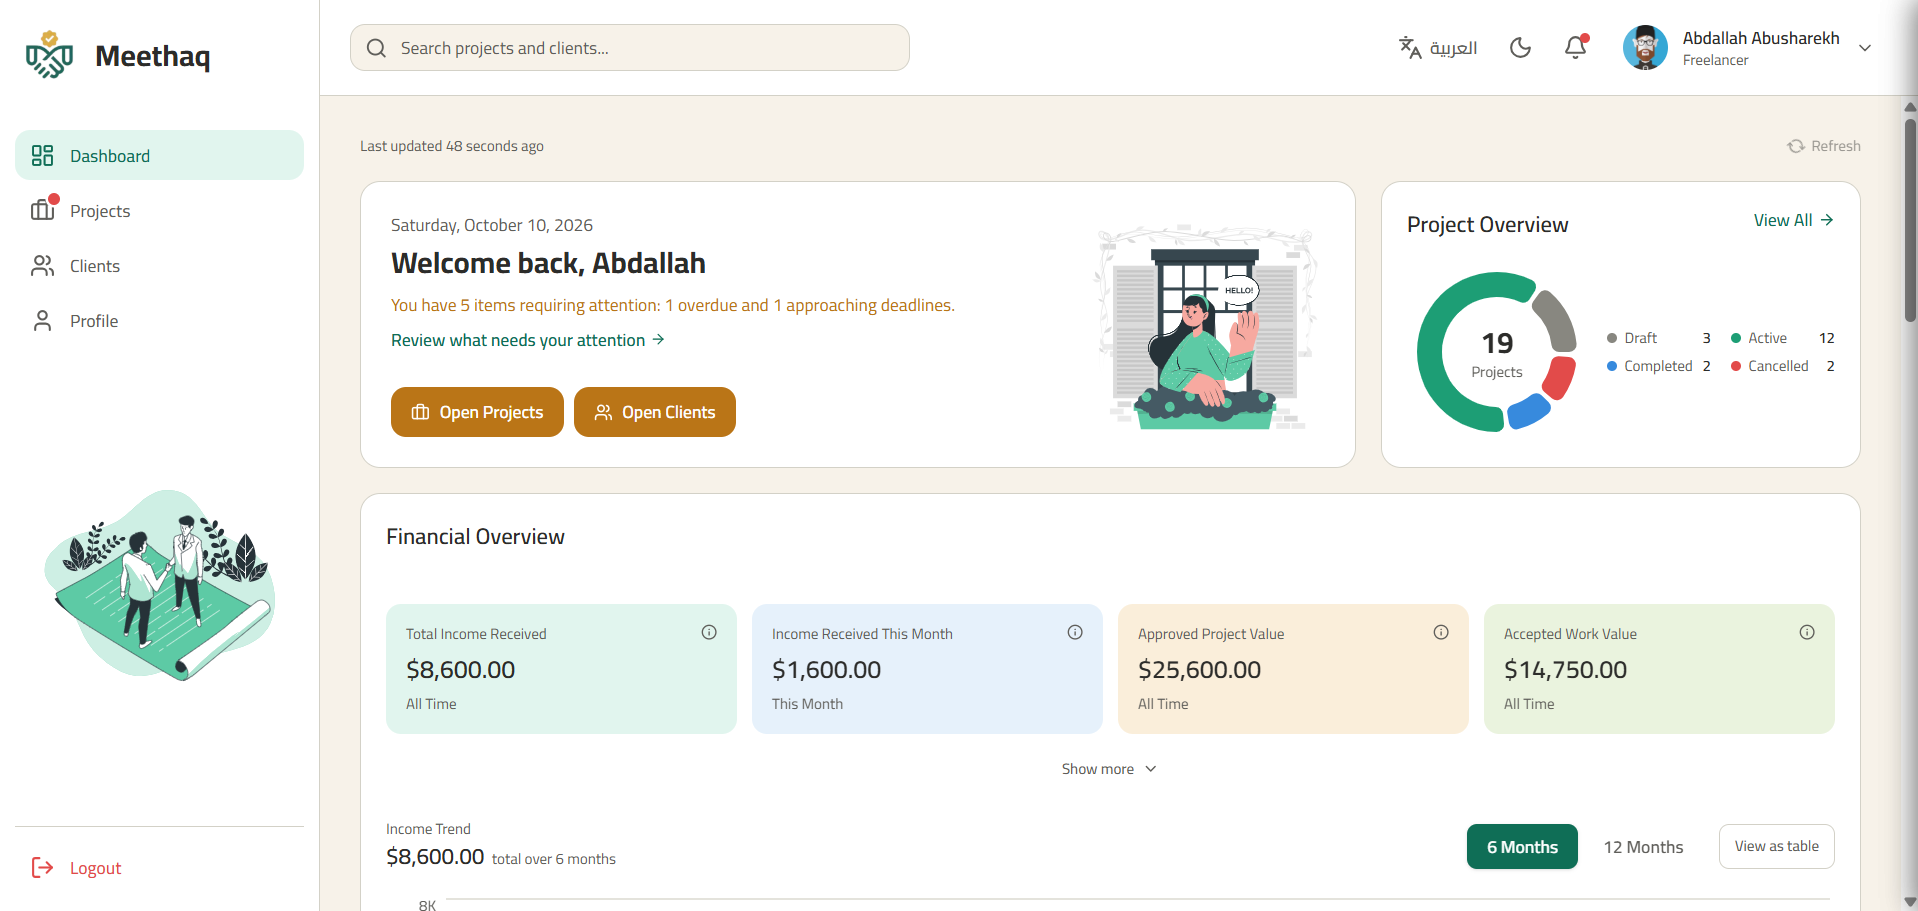
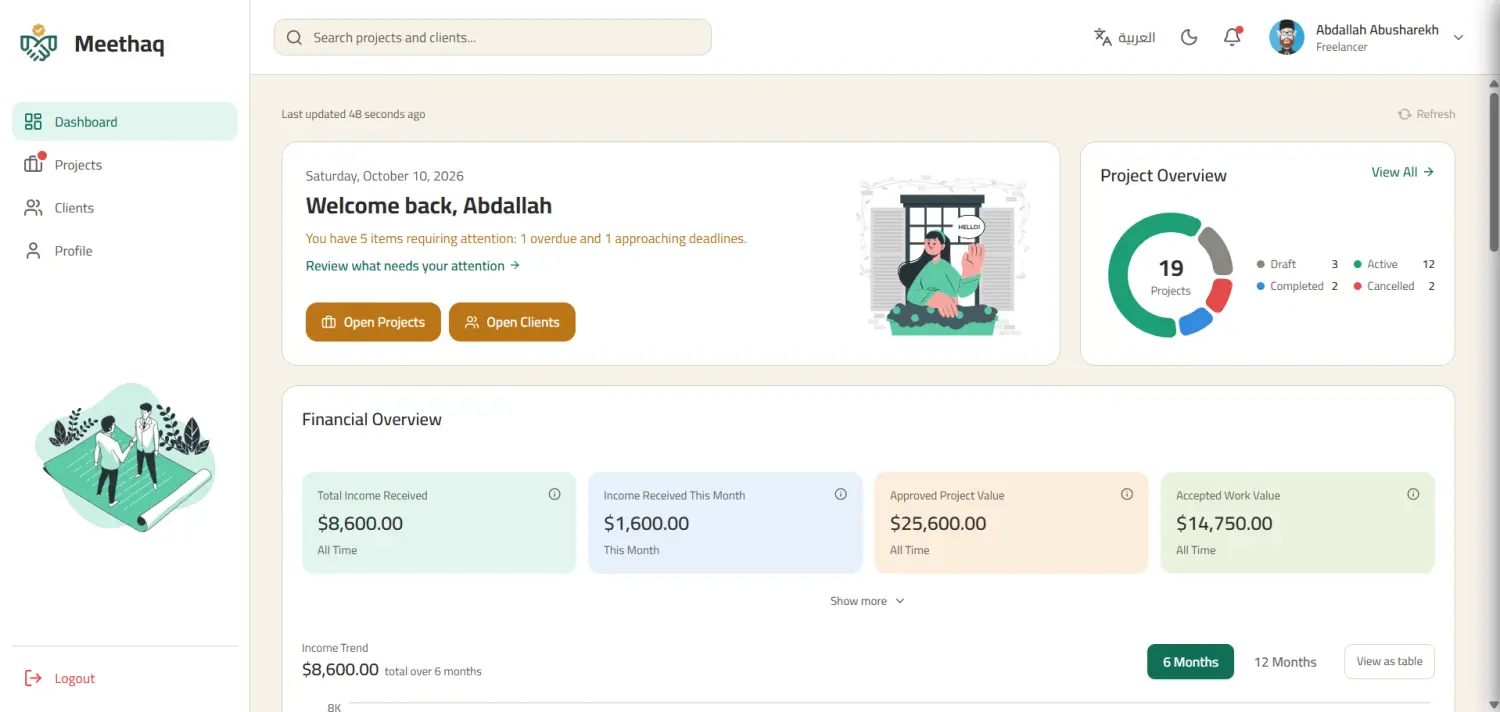
perf(work): lazy-load and downscale project images
Resize project screenshots wider than 1500px down to 1500px (WebP q75),
using a one-off sharp script that isn't part of the build. Total size
drops from 293.1 KB to 174.2 KB. Project images now load lazily and
decode async, with intrinsic width/height to prevent layout shift.
Images at the top of the page (logo, profile photo) are unchanged.

diff --git a/src/data/projects.ts b/src/data/projects.ts
@@ -6,6 +6,8 @@ export type Project = {
   year: number;
   tags: string[];
   image: string;
+  imageWidth: number;
+  imageHeight: number;
   liveUrl?: string;
   githubUrl?: string;
 };
@@ -32,6 +34,8 @@ export const projects: Project[] = [
       "Sonner",
     ],
     image: "/projects/meethaq.webp",
+    imageWidth: 1500,
+    imageHeight: 712,
   },
   {
     id: "academix",
@@ -52,6 +56,8 @@ export const projects: Project[] = [
       "ZOD",
     ],
     image: "/projects/academix.webp",
+    imageWidth: 1500,
+    imageHeight: 712,
     liveUrl: "https://academix-edu.vercel.app",
     githubUrl: "https://github.com/academix-platform/academix",
   },
@@ -71,6 +77,8 @@ export const projects: Project[] = [
       "TanStack Query",
     ],
     image: "/projects/cure-way.webp",
+    imageWidth: 1280,
+    imageHeight: 607,
     liveUrl: "https://cure-way.vercel.app",
     githubUrl: "https://github.com/cure-way/cureway-platform",
   },
@@ -90,6 +98,8 @@ export const projects: Project[] = [
       "FULLCALENDAR",
     ],
     image: "/projects/client-portal.webp",
+    imageWidth: 1500,
+    imageHeight: 710,
     liveUrl: "https://client-portal-hub.vercel.app",
     githubUrl: "https://github.com/abdallah-abusharekh/client-portal",
   },
@@ -102,6 +112,8 @@ export const projects: Project[] = [
     year: 2026,
     tags: ["REACT", "VITE", "REDUX", "TAILWIND CSS"],
     image: "/projects/pizzana.webp",
+    imageWidth: 1500,
+    imageHeight: 716,
     liveUrl: "https://pizzana-app.vercel.app/",
     githubUrl: "https://github.com/abdallah-abusharekh/Pizzana",
   },

diff --git a/src/components/sections/Work.tsx b/src/components/sections/Work.tsx
@@ -41,6 +41,10 @@ function ProjectCard({ project, index }: { project: Project; index: number }) {
         <img
           src={project.image}
           alt={`${project.title} project preview`}
+          width={project.imageWidth}
+          height={project.imageHeight}
+          loading="lazy"
+          decoding="async"
           className="block rounded-xl w-full h-full object-contain group-hover:scale-[1.02] transition-transform duration-700 ease-out"
         />
 
